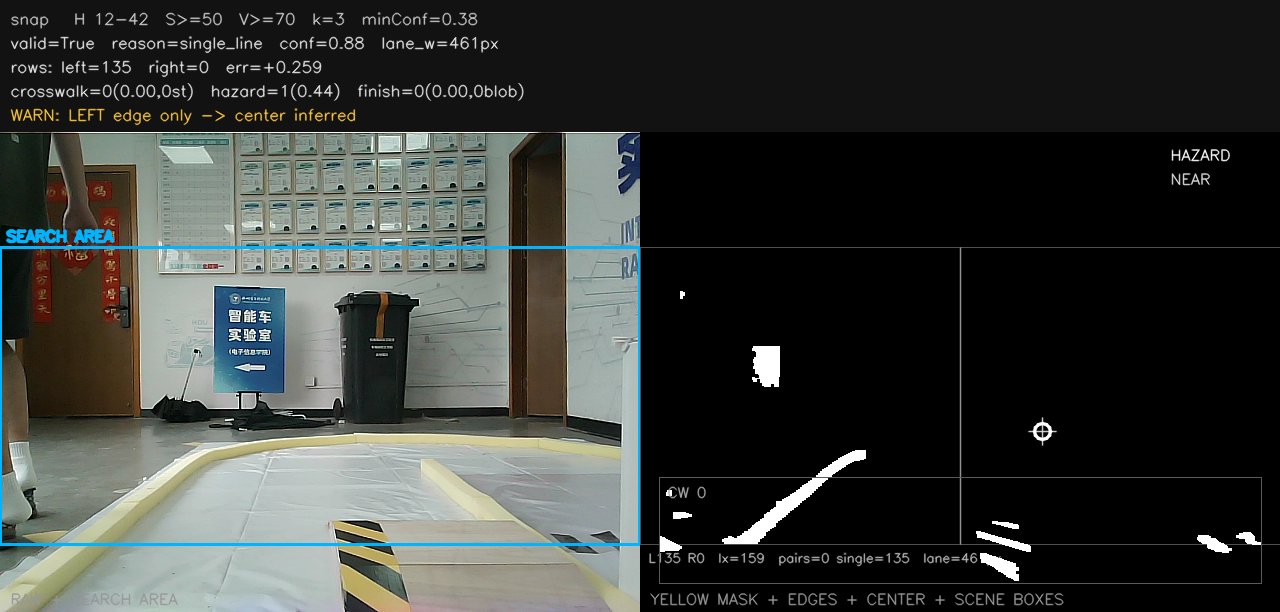
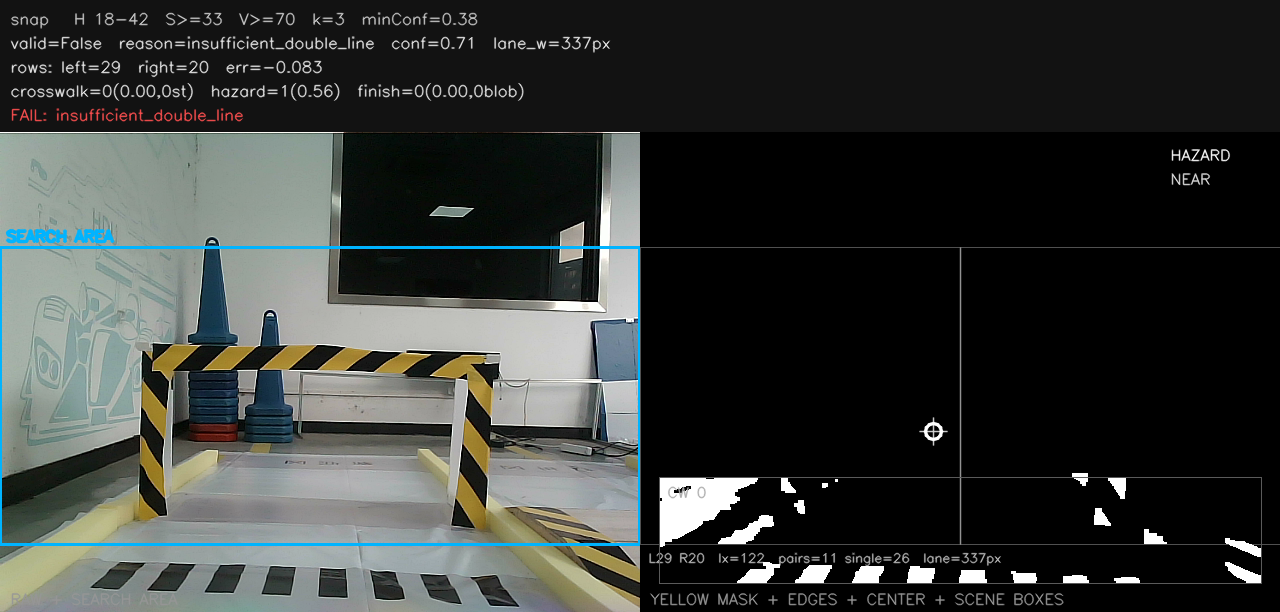
俯仰角

diff --git a/src/wheel_robot/scripts/shiwai_lane_fixed.py b/src/wheel_robot/scripts/shiwai_lane_fixed.py
@@ -42,6 +42,14 @@ ROLL_RATE_DEG = 30.0
 # 程序启动后这么多秒才允许左横滚，避免一出发就歪。神tm定时器
 BRIDGE_ROLL_DELAY_SECONDS = 4.0
 
+# ---------- 低头（俯仰 joint_pitching） ----------
+# 摄像头看得太远就加大这个角度。全程保持，不随赛道阶段变化。
+# 底盘单位是「度」，限幅 ±35°（wheeled_legged_pkg/src/wl_base_node.cpp: Pitch_limits=35）。
+# 正负号：如果填 +5 反而抬头了，就改成 -5。
+PITCH_DEG = 10.0
+# 低头变化速度（度/秒）。从 0 到 5° 约 0.25 秒。
+PITCH_RATE_DEG = 20.0
+
 # 「到桥头」的主信号：近端胶带消失（hazard_near 由 True 变 False）。
 # 实测 course_20261017_170916.avi（min_hazard_transitions=1.8）：
 #   hazard_near: t=0.7s 起连续 True，到 t≈9.0s 转 False（偶有单帧闪回）
@@ -176,7 +184,7 @@ MIN_CROSSWALK_STRIPES = 5
 
 # ---------- 腿高 / 隧道下蹲 ----------
 # 正常站立腿高（米）。底盘默认约 0.25，允许范围大约 0.14~0.36。
-STAND_HEIGHT = 0.25
+STAND_HEIGHT = 0.25 #0.25
 
 # 过隧道时的下蹲腿高（米）。越小蹲得越明显，不要低于 0.14。
 CROUCH_HEIGHT = 0.16
@@ -1252,6 +1260,7 @@ class ShiWaiFollower(Node):
         self._current_height = self.stand_height
         self._target_height = self.stand_height
         self._current_roll = 0.0
+        self._current_pitch = 0.0
         self._started_at = time.monotonic()
         self._height_time = time.monotonic()
         self._video_writer: Optional[cv2.VideoWriter] = None
@@ -1742,7 +1751,7 @@ class ShiWaiFollower(Node):
         message.position = [
             float(np.clip(height, 0.14, 0.36)),
             float(np.clip(self._current_roll, -15.0, 15.0)),
-            0.0,
+            float(np.clip(self._current_pitch, -35.0, 35.0)),
         ]
         self.posture_pub.publish(message)
 
@@ -1768,6 +1777,12 @@ class ShiWaiFollower(Node):
             self._current_roll,
             self._bridge_roll_target(),
             ROLL_RATE_DEG * dt,
+        )
+        # 低头是全程目标，不随任何赛道阶段变化。
+        self._current_pitch = self._approach(
+            self._current_pitch,
+            float(PITCH_DEG),
+            PITCH_RATE_DEG * dt,
         )
         self._publish_posture(self._current_height)
 
@@ -2074,6 +2089,7 @@ class ShiWaiFollower(Node):
             self._publish_zero("control_exception")
             try:
                 self._current_roll = 0.0
+                self._current_pitch = 0.0
                 self._publish_posture(self.stand_height)
             except Exception:
                 pass
@@ -2425,7 +2441,8 @@ class ShiWaiFollower(Node):
         cv2.putText(
             debug,
             f"err={result.error:+.3f}   v={linear:.2f}   w={angular:+.2f}   "
-            f"h={self._current_height:.2f}   roll={self._current_roll:+.1f}",
+            f"h={self._current_height:.2f}   roll={self._current_roll:+.1f}   "
+            f"pitch={self._current_pitch:+.1f}",
             (12, 52),
             cv2.FONT_HERSHEY_SIMPLEX,
             0.48,
@@ -2650,6 +2667,7 @@ class ShiWaiFollower(Node):
         self._target_height = self.stand_height
         self._current_height = self.stand_height
         self._current_roll = 0.0
+        self._current_pitch = 0.0
         self._publish_posture(self.stand_height)
         self._exit_requested = True
 
@@ -2668,6 +2686,7 @@ class ShiWaiFollower(Node):
             self._capture_thread.join(timeout=1.0)
         if rclpy.ok():
             self._current_roll = 0.0
+            self._current_pitch = 0.0
             for _ in range(10):
                 self._publish(0.0, 0.0)
                 self._publish_posture(self.stand_height)

diff --git a/install/wheel_robot/lib/wheel_robot/shiwai.py b/install/wheel_robot/lib/wheel_robot/shiwai.py
@@ -32,7 +32,7 @@ WHEEL_TRACK_CM = 43.0
 # 过单边桥时相对黄泡沫中点的偏移（厘米）。
 # 正数往左，负数往右。桥在右侧：右轮上桥、左轮在地面。
 # 从左侧棱滑下去就把负数再加大（更往右），例如 -12。
-BRIDGE_OFFSET_CM = -10.0
+BRIDGE_OFFSET_CM = 0 #-10
 
 # 过单边桥时的横滚（度）。负数为左倾（左腿压低、右腿抬高），正数为右倾。
 # 桥在右侧：左横滚让右轮更容易上到桥面。下桥后自动回到 0。

diff --git a/readme.md b/readme.md
@@ -197,4 +197,6 @@ yellow_*（保留原值）	场景识别（黄黑胶带 / 人行道 / 终点）	1
    左线在 x=100 时，0.38 → 虚拟中点 343 > 320 → 判成“该右转”，方向反了。
 SINGLE_LEFT_HALF_RATIO = 0.31
 SINGLE_RIGHT_HALF_RATIO = 0.31
-BRIDGE_OFFSET_CM=10,取消了偏置带来的不必要的右边
+BRIDGE_OFFSET_CM=0,取消了偏置带来的不必要的右边
+
+增加了俯仰角10度，但还是很难看到赛道
